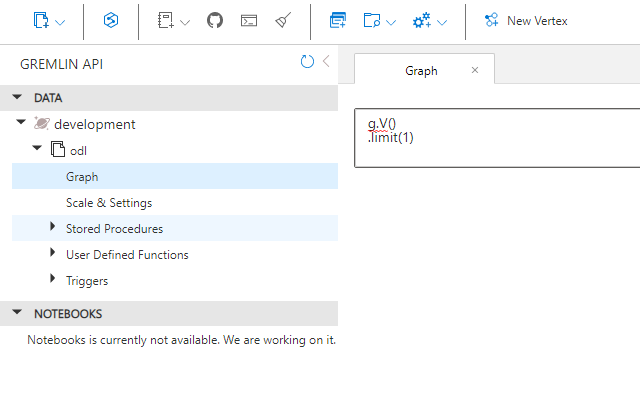
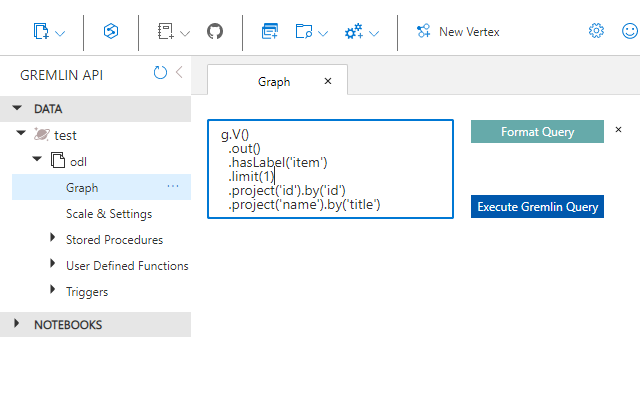
Version 2.0.0 - Ability to format the query - Auto resizess the height of the query window - Enable tab (insert two spaces) - Disable spellchecking (no red squiggles) - Hide query completion suggestions

diff --git a/src/gremlint@v3.6.0.js b/src/gremlint@v3.6.0.js
@@ -1,0 +1,11 @@
+var T=typeof globalThis!="undefined"?globalThis:typeof window!="undefined"?window:typeof global!="undefined"?global:typeof self!="undefined"?self:{};function Q(C){return C&&C.__esModule&&Object.prototype.hasOwnProperty.call(C,"default")?C.default:C}function G(C,e,r){return r={path:e,exports:{},require:function(c,o){return F(c,o==null?r.path:o)}},C(r,r.exports),r.exports}function F(){throw new Error("Dynamic requires are not currently supported by @rollup/plugin-commonjs")}var g=G(function(C,e){Object.defineProperty(e,"__esModule",{value:!0}),e.TokenType=void 0,function(r){r.NonGremlinCode="NON_GREMLIN_CODE",r.Traversal="TRAVERSAL",r.Method="METHOD",r.Closure="CLOSURE",r.String="STRING",r.Word="WORD"}(e.TokenType||(e.TokenType={}))}),y=G(function(C,e){Object.defineProperty(e,"__esModule",{value:!0}),e.choose=e.count=e.sum=e.neq=e.eq=e.spaces=e.pipe=e.last=void 0;var r=function(s){return s.slice(-1)[0]};e.last=r;var c=function(){for(var s=[],l=0;l<arguments.length;l++)s[l]=arguments[l];return function(I){return s.reduce(function(m,w){return w(m)},I)}};e.pipe=c;var o=function(s){return Array(s+1).join(" ")};e.spaces=o;var u=function(s){return function(l){return s===l}};e.eq=u;var i=function(s){return function(l){return s!==l}};e.neq=i;var n=function(s,l){return s+l};e.sum=n;var a=function(s){var l;return(l=s==null?void 0:s.length)!==null&&l!==void 0?l:0};e.count=a;var f=function(s,l,I){return function(){for(var m=[],w=0;w<arguments.length;w++)m[w]=arguments[w];return s.apply(void 0,m)?l.apply(void 0,m):I.apply(void 0,m)}};e.choose=f}),b=G(function(C,e){Object.defineProperty(e,"__esModule",{value:!0});var r=function(c){return c===void 0&&(c=0),function(o){switch(o.type){case g.TokenType.NonGremlinCode:return o.code;case g.TokenType.Traversal:return y.spaces(c)+o.steps.map(r()).join(".");case g.TokenType.Method:return y.spaces(c)+r()(o.method)+"("+o.arguments.map(r()).join(", ")+")";case g.TokenType.Closure:return y.spaces(c)+r()(o.method)+"{"+y.last(o.closureCodeBlock.map(function(u){var i=u.lineOfCode,n=u.relativeIndentation;return""+y.spaces(Math.max(n,0))+i}))+"}";case g.TokenType.String:return y.spaces(c)+o.string;case g.TokenType.Word:return y.spaces(c)+o.word}}};e.default=r}),k=G(function(C,e){var r=T&&T.__assign||function(){return r=Object.assign||function(s){for(var l,I=1,m=arguments.length;I<m;I++){l=arguments[I];for(var w in l)Object.prototype.hasOwnProperty.call(l,w)&&(s[w]=l[w])}return s},r.apply(this,arguments)};Object.defineProperty(e,"__esModule",{value:!0}),e.withIncreasedHorizontalPosition=e.withHorizontalPosition=e.withNoEndDotInfo=e.withZeroDotInfo=e.withDotInfo=e.withIncreasedIndentation=e.withZeroIndentation=e.withIndentation=void 0;var c=function(s){return function(l){return r(r({},l),{localIndentation:s})}};e.withIndentation=c,e.withZeroIndentation=e.withIndentation(0);var o=function(s){return function(l){return r(r({},l),{localIndentation:l.localIndentation+s})}};e.withIncreasedIndentation=o;var u=function(s){var l=s.shouldStartWithDot,I=s.shouldEndWithDot;return function(m){return r(r({},m),{shouldStartWithDot:l,shouldEndWithDot:I})}};e.withDotInfo=u;var i=function(s){return r(r({},s),{shouldStartWithDot:!1,shouldEndWithDot:!1})};e.withZeroDotInfo=i;var n=function(s){return r(r({},s),{shouldEndWithDot:!1})};e.withNoEndDotInfo=n;var a=function(s){return function(l){return r(r({},l),{horizontalPosition:s})}};e.withHorizontalPosition=a;var f=function(s){return function(l){return r(r({},l),{horizontalPosition:l.horizontalPosition+s})}};e.withIncreasedHorizontalPosition=f}),N=G(function(C,e){Object.defineProperty(e,"__esModule",{value:!0}),e.formatClosure=void 0;var r=function(i,n,a,f){return f===0?Math.max(i,0):Math.max(i+n+a+1,0)},c=function(i,n){return function(a,f){var s=a.lineOfCode,l=a.relativeIndentation;return{lineOfCode:s,relativeIndentation:l,localIndentation:r(l,i,n,f)}}},o=function(i,n,a){return i.map(c(n,a))},u=function(i){return function(n){return function(a){var f=a.closureCodeBlock,s=a.method,l=n.localIndentation,I=n.horizontalPosition,m=n.maxLineLength,w=n.shouldEndWithDot,D=b.default(l)(a),E=i(k.withNoEndDotInfo(n))(s),P=E.width;return D.length<=m?{type:g.TokenType.Closure,method:E,closureCodeBlock:o(f,I,P),localIndentation:l,width:D.trim().length,shouldStartWithDot:!1,shouldEndWithDot:Boolean(w)}:{type:g.TokenType.Closure,method:E,closureCodeBlock:o(f,I,P),localIndentation:0,width:0,shouldStartWithDot:!1,shouldEndWithDot:Boolean(w)}}}};e.formatClosure=u}),H=G(function(C,e){var r=T&&T.__spreadArray||function(o,u){for(var i=0,n=u.length,a=o.length;i<n;i++,a++)o[a]=u[i];return o};Object.defineProperty(e,"__esModule",{value:!0}),e.formatMethod=void 0;var c=function(o){return function(u){return function(i){var n=b.default(u.localIndentation)(i),a=o(k.withNoEndDotInfo(u))(i.method),f=n.length<=u.maxLineLength;if(f)return{type:g.TokenType.Method,method:a,arguments:i.arguments,argumentGroups:[i.arguments.reduce(function(m,w){return r(r([],m),[o(y.pipe(k.withZeroIndentation,k.withZeroDotInfo,k.withIncreasedHorizontalPosition(a.width+1+m.map(function(D){var E=D.width;return E}).reduce(y.sum,0)+m.length))(u))(w)])},[])],argumentsShouldStartOnNewLine:!1,localIndentation:u.localIndentation,shouldStartWithDot:!1,shouldEndWithDot:Boolean(u.shouldEndWithDot),width:n.trim().length};var s=i.arguments.map(function(m){return[o(y.pipe(k.withIncreasedIndentation(2),k.withZeroDotInfo,k.withHorizontalPosition(u.localIndentation+2))(u))(m)]}),l=y.last(s),I=l?l.map(function(m){var w=m.width;return w}).reduce(y.sum,0)+l.length-1:0;return{type:g.TokenType.Method,method:a,arguments:i.arguments,argumentGroups:s,argumentsShouldStartOnNewLine:!0,shouldStartWithDot:!1,shouldEndWithDot:Boolean(u.shouldEndWithDot),localIndentation:0,width:I}}}};e.formatMethod=c}),R=G(function(C,e){var r=T&&T.__assign||function(){return r=Object.assign||function(o){for(var u,i=1,n=arguments.length;i<n;i++){u=arguments[i];for(var a in u)Object.prototype.hasOwnProperty.call(u,a)&&(o[a]=u[a])}return o},r.apply(this,arguments)};Object.defineProperty(e,"__esModule",{value:!0}),e.formatNonGremlin=void 0;var c=function(o){return function(u){return r(r({},u),{width:y.count(y.last(u.code.split(`
+`)))})}};e.formatNonGremlin=c}),z=G(function(C,e){Object.defineProperty(e,"__esModule",{value:!0}),e.formatString=void 0;var r=function(c){return function(o){return{type:g.TokenType.String,string:o.string,localIndentation:c.localIndentation,width:o.string.length+2}}};e.formatString=r}),q=G(function(C,e){Object.defineProperty(e,"__esModule",{value:!0}),e.STEP_MODULATORS=void 0,e.STEP_MODULATORS=["as","as_","by","emit","option","from","from_","to","read","times","until","with","with_","write"]}),B=G(function(C,e){var r=T&&T.__assign||function(){return r=Object.assign||function(f){for(var s,l=1,I=arguments.length;l<I;l++){s=arguments[l];for(var m in s)Object.prototype.hasOwnProperty.call(s,m)&&(f[m]=s[m])}return f},r.apply(this,arguments)},c=T&&T.__spreadArray||function(f,s){for(var l=0,I=s.length,m=f.length;l<I;l++,m++)f[m]=s[l];return f};Object.defineProperty(e,"__esModule",{value:!0}),e.shouldStepBeLastStepInStepGroup=e.isStepFirstStepInStepGroup=e.isModulator=e.isTraversalSource=void 0;var o=function(f){return f.type===g.TokenType.Word&&f.word==="g"};e.isTraversalSource=o;var u=function(f){return f.type!==g.TokenType.Method&&f.type!==g.TokenType.Closure||f.method.type!==g.TokenType.Word?!1:q.STEP_MODULATORS.includes(f.method.word)};e.isModulator=u;var i=function(f){var s=f.stepsInStepGroup;return!s.length};e.isStepFirstStepInStepGroup=i;var n=function(f){return function(s,l,I,m){var w=s.stepsInStepGroup,D=s.stepGroups,E=m.slice(I+1).reduce(function(d,p){var _=d.stepsInStepGroup,S=d.hasReachedFinalModulator;return S?d:e.isModulator(p)?r(r({},d),{stepsInStepGroup:c(c([],_),[p])}):r(r({},d),{hasReachedFinalModulator:!0})},{stepsInStepGroup:c(c([],w),[l]),hasReachedFinalModulator:!1}).stepsInStepGroup,P=function(){var d=D[0]&&e.isTraversalSource(D[0].steps[0])?2:0,p=e.isModulator(c(c([],w),[l])[0])?2:0,_=d+p;return _}(),W=b.default(f.localIndentation+P)({type:g.TokenType.Traversal,steps:E}),M=W.length>f.maxLineLength;return M}},a=function(f){return function(s,l,I,m){var w=s.stepsInStepGroup,D=s.stepGroups,E=!w.length,P=I===m.length-1,W=!P&&e.isModulator(m[I+1]),M=n(f)({stepsInStepGroup:w,stepGroups:D},l,I,m),d=P||E&&e.isModulator(l)||(l.type===g.TokenType.Method||l.type===g.TokenType.Closure)&&!(W&&!M);return d}};e.shouldStepBeLastStepInStepGroup=a}),Z=G(function(C,e){var r=T&&T.__spreadArray||function(o,u){for(var i=0,n=u.length,a=o.length;i<n;i++,a++)o[a]=u[i];return o};Object.defineProperty(e,"__esModule",{value:!0});var c=function(o,u){return function(i,n,a,f){var s=i.stepsInStepGroup,l=i.stepGroups,I=l.length===0,m=a===f.length-1,w=l[0]&&B.isTraversalSource(l[0].steps[0])?2:0,D=B.isModulator(n)?2:0,E=u.localIndentation+w+D,P=!I&&u.shouldPlaceDotsAfterLineBreaks,W=!m&&!u.shouldPlaceDotsAfterLineBreaks;return{stepsInStepGroup:[],stepGroups:r(r([],l),[{steps:[o(y.pipe(k.withIndentation(E),k.withDotInfo({shouldStartWithDot:P,shouldEndWithDot:W}),k.withHorizontalPosition(E+ +u.shouldPlaceDotsAfterLineBreaks))(u))(n)]}])}}};e.default=c}),U=G(function(C,e){var r=T&&T.__spreadArray||function(o,u){for(var i=0,n=u.length,a=o.length;i<n;i++,a++)o[a]=u[i];return o};Object.defineProperty(e,"__esModule",{value:!0});var c=function(o,u){return function(i,n,a,f){var s=i.stepsInStepGroup,l=i.stepGroups,I=a===f.length-1,m=!1,w=!I&&!u.shouldPlaceDotsAfterLineBreaks;return{stepsInStepGroup:[],stepGroups:r(r([],l),[{steps:r(r([],s),[o(y.pipe(k.withZeroIndentation,k.withDotInfo({shouldStartWithDot:m,shouldEndWithDot:w}),k.withIncreasedHorizontalPosition(s.map(function(D){var E=D.width;return E}).reduce(y.sum,0)+s.length))(u))(n)])}])}}};e.default=c}),K=G(function(C,e){Object.defineProperty(e,"__esModule",{value:!0});var r=function(c,o){return function(u,i){var n=u.stepsInStepGroup,a=u.stepGroups,f=o.localIndentation+(a[0]&&B.isTraversalSource(a[0].steps[0])?2:0),s=a.length===0,l=!s&&o.shouldPlaceDotsAfterLineBreaks,I=!1;return{stepsInStepGroup:[c(y.pipe(k.withIndentation(f),k.withDotInfo({shouldStartWithDot:l,shouldEndWithDot:I}),k.withHorizontalPosition(f))(o))(i)],stepGroups:a}}};e.default=r}),Y=G(function(C,e){var r=T&&T.__spreadArray||function(o,u){for(var i=0,n=u.length,a=o.length;i<n;i++,a++)o[a]=u[i];return o};Object.defineProperty(e,"__esModule",{value:!0});var c=function(o,u){return function(i,n){var a=i.stepsInStepGroup,f=i.stepGroups,s=u.localIndentation+a.map(function(l){var I=l.width;return I}).reduce(y.sum,0)+a.length;return{stepsInStepGroup:r(r([],a),[o(y.pipe(k.withZeroIndentation,k.withDotInfo({shouldStartWithDot:!1,shouldEndWithDot:!1}),k.withHorizontalPosition(s))(u))(n)]),stepGroups:f}}};e.default=c}),$=G(function(C,e){Object.defineProperty(e,"__esModule",{value:!0}),e.getStepGroups=void 0;var r=function(c,o,u){return o.reduce(y.choose(B.shouldStepBeLastStepInStepGroup(u),y.choose(B.isStepFirstStepInStepGroup,Z.default(c,u),U.default(c,u)),y.choose(B.isStepFirstStepInStepGroup,K.default(c,u),Y.default(c,u))),{stepsInStepGroup:[],stepGroups:[]}).stepGroups};e.getStepGroups=r}),V=G(function(C,e){var r=T&&T.__spreadArray||function(o,u){for(var i=0,n=u.length,a=o.length;i<n;i++,a++)o[a]=u[i];return o};Object.defineProperty(e,"__esModule",{value:!0}),e.formatTraversal=void 0;var c=function(o){return function(u){return function(i){var n=i.steps[0]&&B.isTraversalSource(i.steps[0])?i.initialHorizontalPosition:0,a=b.default(u.localIndentation+n)(i);if(a.length<=u.maxLineLength)return{type:g.TokenType.Traversal,steps:i.steps,stepGroups:[{steps:i.steps.reduce(function(I,m,w){var D=w===0?o(u)(m):o(y.pipe(k.withZeroIndentation,k.withIncreasedHorizontalPosition(i.initialHorizontalPosition+I.map(function(E){var P=E.width;return P}).reduce(y.sum,0)+I.length))(u))(m);return r(r([],I),[D])},[])}],initialHorizontalPosition:i.initialHorizontalPosition,localIndentation:0,width:a.trim().length};var f=$.getStepGroups(o,i.steps,u),s=y.last(f),l=s?s.steps.map(function(I){var m=I.width;return m}).reduce(y.sum,0)+f.length-1:0;return{type:g.TokenType.Traversal,steps:i.steps,stepGroups:f,initialHorizontalPosition:i.initialHorizontalPosition,localIndentation:0,width:l}}}};e.formatTraversal=c}),J=G(function(C,e){Object.defineProperty(e,"__esModule",{value:!0}),e.formatWord=void 0;var r=function(c){return function(o){return{type:g.TokenType.Word,word:o.word,localIndentation:c.localIndentation,shouldStartWithDot:Boolean(c.shouldStartWithDot),shouldEndWithDot:Boolean(c.shouldEndWithDot),width:o.word.length}}};e.formatWord=r}),X=G(function(C,e){Object.defineProperty(e,"__esModule",{value:!0}),e.formatSyntaxTrees=void 0;var r=function(o){return function(u){switch(u.type){case g.TokenType.NonGremlinCode:return R.formatNonGremlin(o)(u);case g.TokenType.Traversal:return V.formatTraversal(r)(o)(u);case g.TokenType.Method:return H.formatMethod(r)(o)(u);case g.TokenType.Closure:return N.formatClosure(r)(o)(u);case g.TokenType.String:return z.formatString(o)(u);case g.TokenType.Word:return J.formatWord(o)(u)}}},c=function(o){return function(u){return u.map(r(o))}};e.formatSyntaxTrees=c}),x=G(function(C,e){var r=T&&T.__assign||function(){return r=Object.assign||function(S){for(var h,t=1,v=arguments.length;t<v;t++){h=arguments[t];for(var O in h)Object.prototype.hasOwnProperty.call(h,O)&&(S[O]=h[O])}return S},r.apply(this,arguments)};Object.defineProperty(e,"__esModule",{value:!0}),e.extractGremlinQueries=void 0;var c="\u2985",o="\u2986",u="\u27E6",i="\u27E7",n="\u2983",a="\u2984",f="\u3002",s=function(S){var h=S.split("").reduce(function(t,v){return v==="."?r(r({},t),{word:!t.isInsideSingleQuoteString&&!t.parenthesesCount&&!t.squareBracketsCount&&!t.curlyBracketsCount?t.word+".":t.word+f}):v==="("?r(r({},t),{parenthesesCount:t.parenthesesCount+(t.isInsideSingleQuoteString?0:1),word:!t.isInsideSingleQuoteString&&!t.parenthesesCount&&!t.squareBracketsCount&&!t.curlyBracketsCount?t.word+"(":t.word+c}):v==="["?r(r({},t),{squareBracketsCount:t.squareBracketsCount+(t.isInsideSingleQuoteString?0:1),word:!t.isInsideSingleQuoteString&&!t.parenthesesCount&&!t.squareBracketsCount&&!t.curlyBracketsCount?t.word+"[":t.word+u}):v==="{"?r(r({},t),{curlyBracketsCount:t.curlyBracketsCount+(t.isInsideSingleQuoteString?0:1),word:!t.isInsideSingleQuoteString&&!t.parenthesesCount&&!t.squareBracketsCount&&!t.curlyBracketsCount?t.word+"{":t.word+n}):v===")"?r(r({},t),{parenthesesCount:t.parenthesesCount-(t.isInsideSingleQuoteString?0:1),word:!t.isInsideSingleQuoteString&&t.parenthesesCount===1&&!t.squareBracketsCount&&!t.curlyBracketsCount?t.word+")":t.word+o}):v==="]"?r(r({},t),{squareBracketsCount:t.squareBracketsCount-(t.isInsideSingleQuoteString?0:1),word:!t.isInsideSingleQuoteString&&!t.parenthesesCount&&t.squareBracketsCount===1&&!t.curlyBracketsCount?t.word+"]":t.word+i}):v==="}"?r(r({},t),{curlyBracketsCount:t.curlyBracketsCount-(t.isInsideSingleQuoteString?0:1),word:!t.isInsideSingleQuoteString&&!t.parenthesesCount&&!t.squareBracketsCount&&t.curlyBracketsCount===1?t.word+"}":t.word+a}):v==="'"?r(r({},t),{isInsideSingleQuoteString:!t.isInsideSingleQuoteString,word:t.word+"'"}):r(r({},t),{word:t.word+v})},{word:"",parenthesesCount:0,squareBracketsCount:0,curlyBracketsCount:0,isInsideSingleQuoteString:!1}).word;return h},l=function(S){return S.split(f).join(".").split(c).join("(").split(o).join(")").split(u).join("[").split(i).join("]").split(n).join("{").split(a).join("}")},I="\\s",m="[^\\S\\r\\n]",w="\\.",D="\\w+"+m+"*\\([^\\)]*\\)",E="\\w+"+m+"*\\{[^\\}]*\\}",P="\\w+",W="("+D+"|"+E+"|"+P+")",M="("+I+"*"+w+I+"*)",d="g("+M+W+")+",p=new RegExp(d,"g"),_=function(S){var h=s(S),t=h.match(p);return t?t.map(l):[]};e.extractGremlinQueries=_}),ee=G(function(C,e){var r=T&&T.__spreadArray||function(d,p){for(var _=0,S=p.length,h=d.length;_<S;_++,h++)d[h]=p[_];return d};Object.defineProperty(e,"__esModule",{value:!0}),e.parseToSyntaxTrees=e.parseNonGremlinCodeToSyntaxTree=void 0;var c=function(d){var p="",_=0,S=0,h=0,t=!1;return d.split("").forEach(function(v){if(v==="("&&!t){_++,p+="(";return}if(v==="["&&!t){S++,p+="[";return}if(v==="{"&&!t){h++,p+="{";return}if(v===")"&&!t){_--,p+=")";return}if(v==="]"&&!t){S--,p+="]";return}if(v==="}"&&!t){h--,p+="}";return}if(v==="'"){t=!t,p+="'";return}if(v==="."){p+=t||_||S||h?".":String.fromCharCode(28);return}p+=v}),p.split(String.fromCharCode(28)).filter(function(v){return v!==""}).map(function(v){return v.trim()})},o=function(d){var p="",_=0,S=0,h=0,t=!1;return d.split("").forEach(function(v){if(v==="("&&!t){_++,p+="(";return}if(v==="["&&!t){S++,p+="[";return}if(v==="{"&&!t){h++,p+="{";return}if(v===")"&&!t){_--,p+=")";return}if(v==="]"&&!t){S--,p+="]";return}if(v==="}"&&!t){h--,p+="}";return}if(v==="'"){t=!t,p+="'";return}if(v===","){p+=t||_||S||h?",":String.fromCharCode(28);return}p+=v}),p.split(String.fromCharCode(28)).filter(function(v){return v!==""}).map(function(v){return v.trim()})},u=function(d){var p="",_=0,S=!1;return d.split("").forEach(function(h){if(h==="("&&!S){_===0&&(p+=String.fromCharCode(28)),_++,p+="(";return}if(h==="["&&!S){p+="[";return}if(h==="{"&&!S){p+="{";return}if(h===")"&&!S){_--,p+=")";return}if(h==="]"&&!S){p+="]";return}if(h==="}"&&!S){p+="}";return}if(h==="'"){S=!S,p+="'";return}p+=h}),p.split(String.fromCharCode(28)).filter(function(h){return h!==""}).map(function(h){return h.trim()})},i=function(d){var p="",_=0,S=!1;return d.split("").forEach(function(h){if(h==="("&&!S){p+="(";return}if(h==="["&&!S){p+="[";return}if(h==="{"&&!S){_===0&&(p+=String.fromCharCode(28)),_++,p+="{";return}if(h===")"&&!S){p+=")";return}if(h==="]"&&!S){p+="]";return}if(h==="}"&&!S){_--,p+="}";return}if(h==="'"){S=!S,p+="'";return}p+=h}),p.split(String.fromCharCode(28)).filter(function(h){return h!==""}).map(function(h){return h.trim()})},n=function(d){return d.length<2||d.charAt(0)!=="("?!1:!(d.slice(-1)!==")")},a=function(d){return d.length<2||d.charAt(0)!=="{"?!1:!(d.slice(-1)!=="}")},f=function(d){return d.length<2||d.charAt(0)!==d.substr(-1)?!1:!!['"',"'"].includes(d.charAt(0))},s=function(d){return y.pipe(u,y.last,n)(d)},l=function(d){return y.pipe(i,y.last,a)(d)},I=function(d){return d.slice(1,-1)},m=function(d){return d.slice(1,-1)},w=function(d){var p=u(d);return{methodToken:p.slice(0,-1).join(""),argumentTokens:y.pipe(I,o)(p.slice(-1)[0])}},D=function(d){return d.split("").findIndex(y.neq(" "))},E=function(d,p){var _=i(d),S=_.slice(0,-1).join(""),h=m(_.slice(-1)[0]),t=p.substr(0,p.indexOf(h)).split(`
+`).slice(-1)[0].length;return{methodToken:S,closureCodeBlock:m(_.slice(-1)[0]).split(`
+`).map(function(v,O){return{lineOfCode:v.trimStart(),relativeIndentation:O===0?D(v):D(v)-t}})}},P=function(d,p){return function(_){var S=c(_);if(S.length===1){var h=S[0];if(s(h)){var t=w(h),v=t.methodToken,O=t.argumentTokens;return{type:g.TokenType.Method,method:P(d)(v),arguments:O.map(P(d))}}if(l(h)){var L=E(h,d),v=L.methodToken,A=L.closureCodeBlock;return{type:g.TokenType.Closure,method:P(d)(v),closureCodeBlock:A}}return f(h)?{type:g.TokenType.String,string:h}:{type:g.TokenType.Word,word:h}}return{type:g.TokenType.Traversal,steps:S.map(P(d)),initialHorizontalPosition:p?d.substr(0,d.indexOf(_)).split(`
+`).slice(-1)[0].length:0}}},W=function(d){return{type:g.TokenType.NonGremlinCode,code:d}};e.parseNonGremlinCodeToSyntaxTree=W;var M=function(d){var p=x.extractGremlinQueries(d),_=p.reduce(function(t,v){var O=t.remainingCode.indexOf(v),L=t.remainingCode.substr(0,O);return{syntaxTrees:r(r([],t.syntaxTrees),[e.parseNonGremlinCodeToSyntaxTree(L),P(d,!0)(v)]),remainingCode:t.remainingCode.substr(O+v.length)}},{syntaxTrees:[],remainingCode:d}),S=_.syntaxTrees,h=_.remainingCode;return h?r(r([],S),[e.parseNonGremlinCodeToSyntaxTree(h)]):S};e.parseToSyntaxTrees=M}),re=G(function(C,e){Object.defineProperty(e,"__esModule",{value:!0}),e.recreateQueryStringFromFormattedSyntaxTrees=void 0;var r=function(n){return n.type===g.TokenType.NonGremlinCode?n.code:n.type===g.TokenType.Traversal?n.stepGroups.map(function(a){return a.steps.map(r).join(".")}).join(`
+`):n.type===g.TokenType.Method?(n.shouldStartWithDot?".":"")+[r(n.method)+"(",n.argumentGroups.map(function(a){return a.map(r).join(", ")}).join(`,
+`)+")"+(n.shouldEndWithDot?".":"")].join(n.argumentsShouldStartOnNewLine?`
+`:""):n.type===g.TokenType.Closure?(n.shouldStartWithDot?".":"")+r(n.method)+"{"+n.closureCodeBlock.map(function(a,f){var s=a.lineOfCode,l=a.localIndentation;return""+y.spaces(l)+s}).join(`
+`)+"}"+(n.shouldEndWithDot?".":""):n.type===g.TokenType.String?y.spaces(n.localIndentation)+n.string:n.type===g.TokenType.Word?y.spaces(n.localIndentation)+(n.shouldStartWithDot?".":"")+n.word+(n.shouldEndWithDot?".":""):""},c=function(n){return function(a){return a&&y.spaces(n)+a}},o=function(n){return n.split("").every(y.eq(" "))},u=function(n){return o(n)?"":n},i=function(n){var a=n.globalIndentation;return function(f){return f.map(r).join("").split(`
+`).map(c(a)).map(u).join(`
+`)}};e.recreateQueryStringFromFormattedSyntaxTrees=i}),te=G(function(C,e){var r=T&&T.__assign||function(){return r=Object.assign||function(i){for(var n,a=1,f=arguments.length;a<f;a++){n=arguments[a];for(var s in n)Object.prototype.hasOwnProperty.call(n,s)&&(i[s]=n[s])}return i},r.apply(this,arguments)};Object.defineProperty(e,"__esModule",{value:!0}),e.formatQuery=void 0;var c=function(i){return r({indentation:0,maxLineLength:80,shouldPlaceDotsAfterLineBreaks:!1},i)},o=function(i){var n=i.indentation,a=i.maxLineLength,f=i.shouldPlaceDotsAfterLineBreaks;return{globalIndentation:n,localIndentation:0,maxLineLength:a-n,shouldPlaceDotsAfterLineBreaks:f,shouldStartWithDot:!1,shouldEndWithDot:!1,horizontalPosition:0}},u=function(i,n){var a=o(c(n!=null?n:{}));return y.pipe(ee.parseToSyntaxTrees,X.formatSyntaxTrees(a),re.recreateQueryStringFromFormattedSyntaxTrees(a))(i)};e.formatQuery=u}),j=G(function(C,e){Object.defineProperty(e,"__esModule",{value:!0}),e.formatQuery=void 0,Object.defineProperty(e,"formatQuery",{enumerable:!0,get:function(){return te.formatQuery}})}),ne=Q(j);export default ne;var oe=j.formatQuery;export{j as __moduleExports,oe as formatQuery};

diff --git a/src/cosmos.js b/src/cosmos.js
@@ -1,61 +1,254 @@
 "use strict";
 
-(function () {
-  const tabPanesSelector = ".tabPanesContainer";
-  const queryEditorSelector = ".queryContainer textarea";
+class QueryEditor {
+  #textAreaAddedCallback;
+  #keydownCallback;
+  #inputCallback;
+  #contextMenuCallback;
 
-  function observeFirstBodyMutation() {
+  #textarea;
+
+  #buttonContainer;
+  #buttons = [];
+  
+  get query() {
+    if (this.#textarea) {
+      return this.#textarea.value;
+    }
+    return null;
+  }
+  set query(value) {
+    if (this.#textarea) {
+      this.#textarea.value = value;
+      this.#textarea.dispatchEvent(new Event("change", { bubbles: true }));
+    }
+  }
+
+  constructor() {
+    this.#observeFirstBodyMutation();
+  }
+  
+  textAreaAdded(callback) {
+    this.#textAreaAddedCallback = callback;
+  }
+  
+  input(callback) {
+    this.#inputCallback = callback;
+  }
+  
+  keydown(callback) {
+    this.#keydownCallback = callback;
+  }
+  
+  contextMenu(callback) {
+    this.#contextMenuCallback = callback;
+  }
+  
+  addButton(button) {
+    this.#buttons.push(button);
+    this.#createButton(button);
+  }
+  
+  resizeToContent() {
+    // https://stackoverflow.com/a/25621277
+    this.#textarea.style.height = "auto";
+    this.#textarea.style.height = (this.#textarea.scrollHeight + 2) + "px";
+  }
+
+  addStyle(style) {
+    document.head.insertAdjacentHTML("beforeend", `<style>${style}</style>`);
+  }
+
+  #queryTextAreaAdded(element) {
+    this.#textarea = element;
+
+    element.addEventListener("keydown", (event) => {
+      if (this.#keydownCallback) {
+        return this.#keydownCallback(event);
+      }
+    });
+    
+    element.addEventListener("input", (event) => {
+      if (this.#inputCallback) {
+        return this.#inputCallback(event);
+      }
+    });
+    
+    document.addEventListener("contextmenu", (event) => {
+      const queryTextAreaSelector = ".queryContainer textarea";
+      if (event.target.matches(queryTextAreaSelector)) {
+        if (this.#contextMenuCallback) {
+          return this.#contextMenuCallback(event);
+        }
+      }
+    }, true);
+    
+    if (this.#textAreaAddedCallback) {
+      return this.#textAreaAddedCallback(element);
+    }
+  };
+
+  #queryButtonAdded(element) {
+    const buttonContainer = document.createElement("div");
+    buttonContainer.style.display = "flex";
+    buttonContainer.style.flexDirection = "column";
+    buttonContainer.style.justifyContent = "space-between";
+    element.replaceWith(buttonContainer);
+    buttonContainer.appendChild(element);
+
+    this.#buttonContainer = buttonContainer;
+
+    this.#buttons.forEach((button) => {
+      this.#createButton(button);
+    })
+  };
+
+  #createButton(buttonProperties) {
+    if (this.#buttonContainer) {
+      const button = document.createElement("button");
+      button.classList.add("filterbtnstyle", "queryButton");
+      button.textContent = buttonProperties.text;
+      button.style = buttonProperties.style;
+      if (buttonProperties.click) {
+        button.onclick = buttonProperties.click;
+      }
+      if (buttonProperties.first == true) {
+        this.#buttonContainer.prepend(button);
+      } else {
+        this.#buttonContainer.append(button);
+      }
+    }
+  }
+  
+  #observeFirstBodyMutation() {
     const bodyObserver = new MutationObserver((mutationsList, observer) => {
       for (const mutation of mutationsList) {
         for (const node of mutation.addedNodes) {
           observer.disconnect();
-          elementAddedToBody(node);
+          this.#elementAddedToBody(node);
         }
       }
     });
     bodyObserver.observe(document.body, { subtree: false, childList: true });
   }
 
-  function elementAddedToBody(element) {
+  #elementAddedToBody(element) {
+    const tabPanesSelector = ".tabPanesContainer";
+
     const tabsObserver = new MutationObserver((mutationsList, observer) => {
       for (const mutation of mutationsList) {
         for (const node of mutation.addedNodes) {
-          tabElementAdded(node);
+          this.#tabElementAdded(node);
         }
       }
     });
+
     const tabPanesContainer = element.querySelector(tabPanesSelector);
     if (!tabPanesContainer) {
       console.warn("Tab panes element not found");
       return;
     }
+
     tabsObserver.observe(tabPanesContainer, { subtree: false, childList: true });
   }
 
-  function tabElementAdded(tabElement) {
-    const queryEditor = tabElement.querySelector(queryEditorSelector);
+  #tabElementAdded(tabElement) {
+    const queryContainerSelector = ".graphExplorerContainer .queryContainer";
+  
+    const queryContainer = tabElement.querySelector(queryContainerSelector);
+    if (!queryContainer) {
+      console.warn("Query container element not found");
+      return;
+    }
+
+    const queryEditor = queryContainer.querySelector("textarea");
     if (!queryEditor) {
       console.warn("Query editor element not found");
       return;
     }
-    queryEditor.addEventListener("keydown", queryEditorKeydown);
+
+    const queryButton = queryContainer.querySelector("button.queryButton");
+    if (!queryButton) {
+      console.warn("Query button element not found");
+      return;
+    }
+
+    this.#queryTextAreaAdded(queryEditor);
+    this.#queryButtonAdded(queryButton);
+  }
+}
+
+class GremlinFormatter {
+  #gremlint;
+
+  async load() {
+    this.#gremlint = await import(chrome.runtime.getURL("gremlint@v3.6.0.js"));
   }
 
-  function queryEditorKeydown(event) {
+  format(query) {
+    const queryLength = query.replaceAll(/\n */g, "").length;
+    return this.#gremlint.formatQuery(query, {
+      indentation: 0,
+      maxLineLength: Math.max(Math.min(160, queryLength - 1), 0),
+      shouldPlaceDotsAfterLineBreaks: true
+    });
+  }
+}
+
+(async () => {
+  const queryEditor = new QueryEditor();
+  
+  queryEditor.textAreaAdded((element) => {
+    
+    // disable spellcheck
+    element.spellcheck = false;
+    
+    // remove rezise (since we auto size after content) and set min height
+    element.style.resize = "none";
+    element.style.minHeight = "84px";
+    element.parentNode.style.minHeight = "inherit"; // default has a min height smaller than the textarea
+  });
+  
+  queryEditor.keydown((event) => {
+    // enable new lines
     if (event.key === "Enter" && !event.ctrlKey) {
       event.stopPropagation();
       return true;
     }
-  }
+    
+    // change tab to spaces (to prevent tabbing out of the textarea)
+    if (event.key === "Tab") {
+      event.preventDefault();
+      document.execCommand("insertText", false, "  "); // execCommand is deprecated, but there is no good alternative for inserting text and also preserving undo/redo history
+    }
+  });
+  
+  queryEditor.input((event) => {
+    // rezise the editor to the query
+    queryEditor.resizeToContent();
+  });
 
-  function enableQueryEditorContextMenu() {
-    document.addEventListener("contextmenu", (e) => {
-      if (e.target.matches(queryEditorSelector)) {
-        e.stopPropagation();
-      }
-    }, true);
-  }
+  queryEditor.contextMenu((event) => {
+    // enable query editor context menu
+    event.stopPropagation();
+  });
 
-  observeFirstBodyMutation();
-  enableQueryEditorContextMenu();
+  const gremlinFormatter = new GremlinFormatter();
+  await gremlinFormatter.load();
+
+  // add format query button
+  queryEditor.addButton({
+    text: "Format Query",
+    style: "background: #66aaaa",
+    first: true,
+    click: () => {
+      queryEditor.query = gremlinFormatter.format(queryEditor.query);
+      // rezise the editor to the query
+      queryEditor.resizeToContent();
+    }
+  });
+  queryEditor.addStyle(".filterbtnstyle.queryButton:hover { border: solid 1px transparent; }");
+  
+  // hide suggestion list
+  queryEditor.addStyle(".graphExplorerContainer .queryContainer .ms-List { display: none; }");
 })();

diff --git a/README.md b/README.md
@@ -1,8 +1,15 @@
 # Cosmos Graph Portal Enhancements
 Chrome extension to enhance the Cosmos graph query editor in the portal.
 
+- Ability to format the query
+- Auto resizess the height of the query window
 - Enable line breaks  
-  (enter or shift + enter will insert at line break, ctrl + enter executes the query)
+  (enter or shift + enter will insert a line break, ctrl + enter executes the query)
+- Enable tab (insert two spaces)
 - Enable right click in the editor text field
+- Disable spellchecking (no red squiggles)
+- Hide query completion suggestions
+
+![Screenshot](Screenshot.png)
 
 [Chrome Web Store](https://chrome.google.com/webstore/detail/kafgakbjaooedlknboeegpjeiddfofpb)
